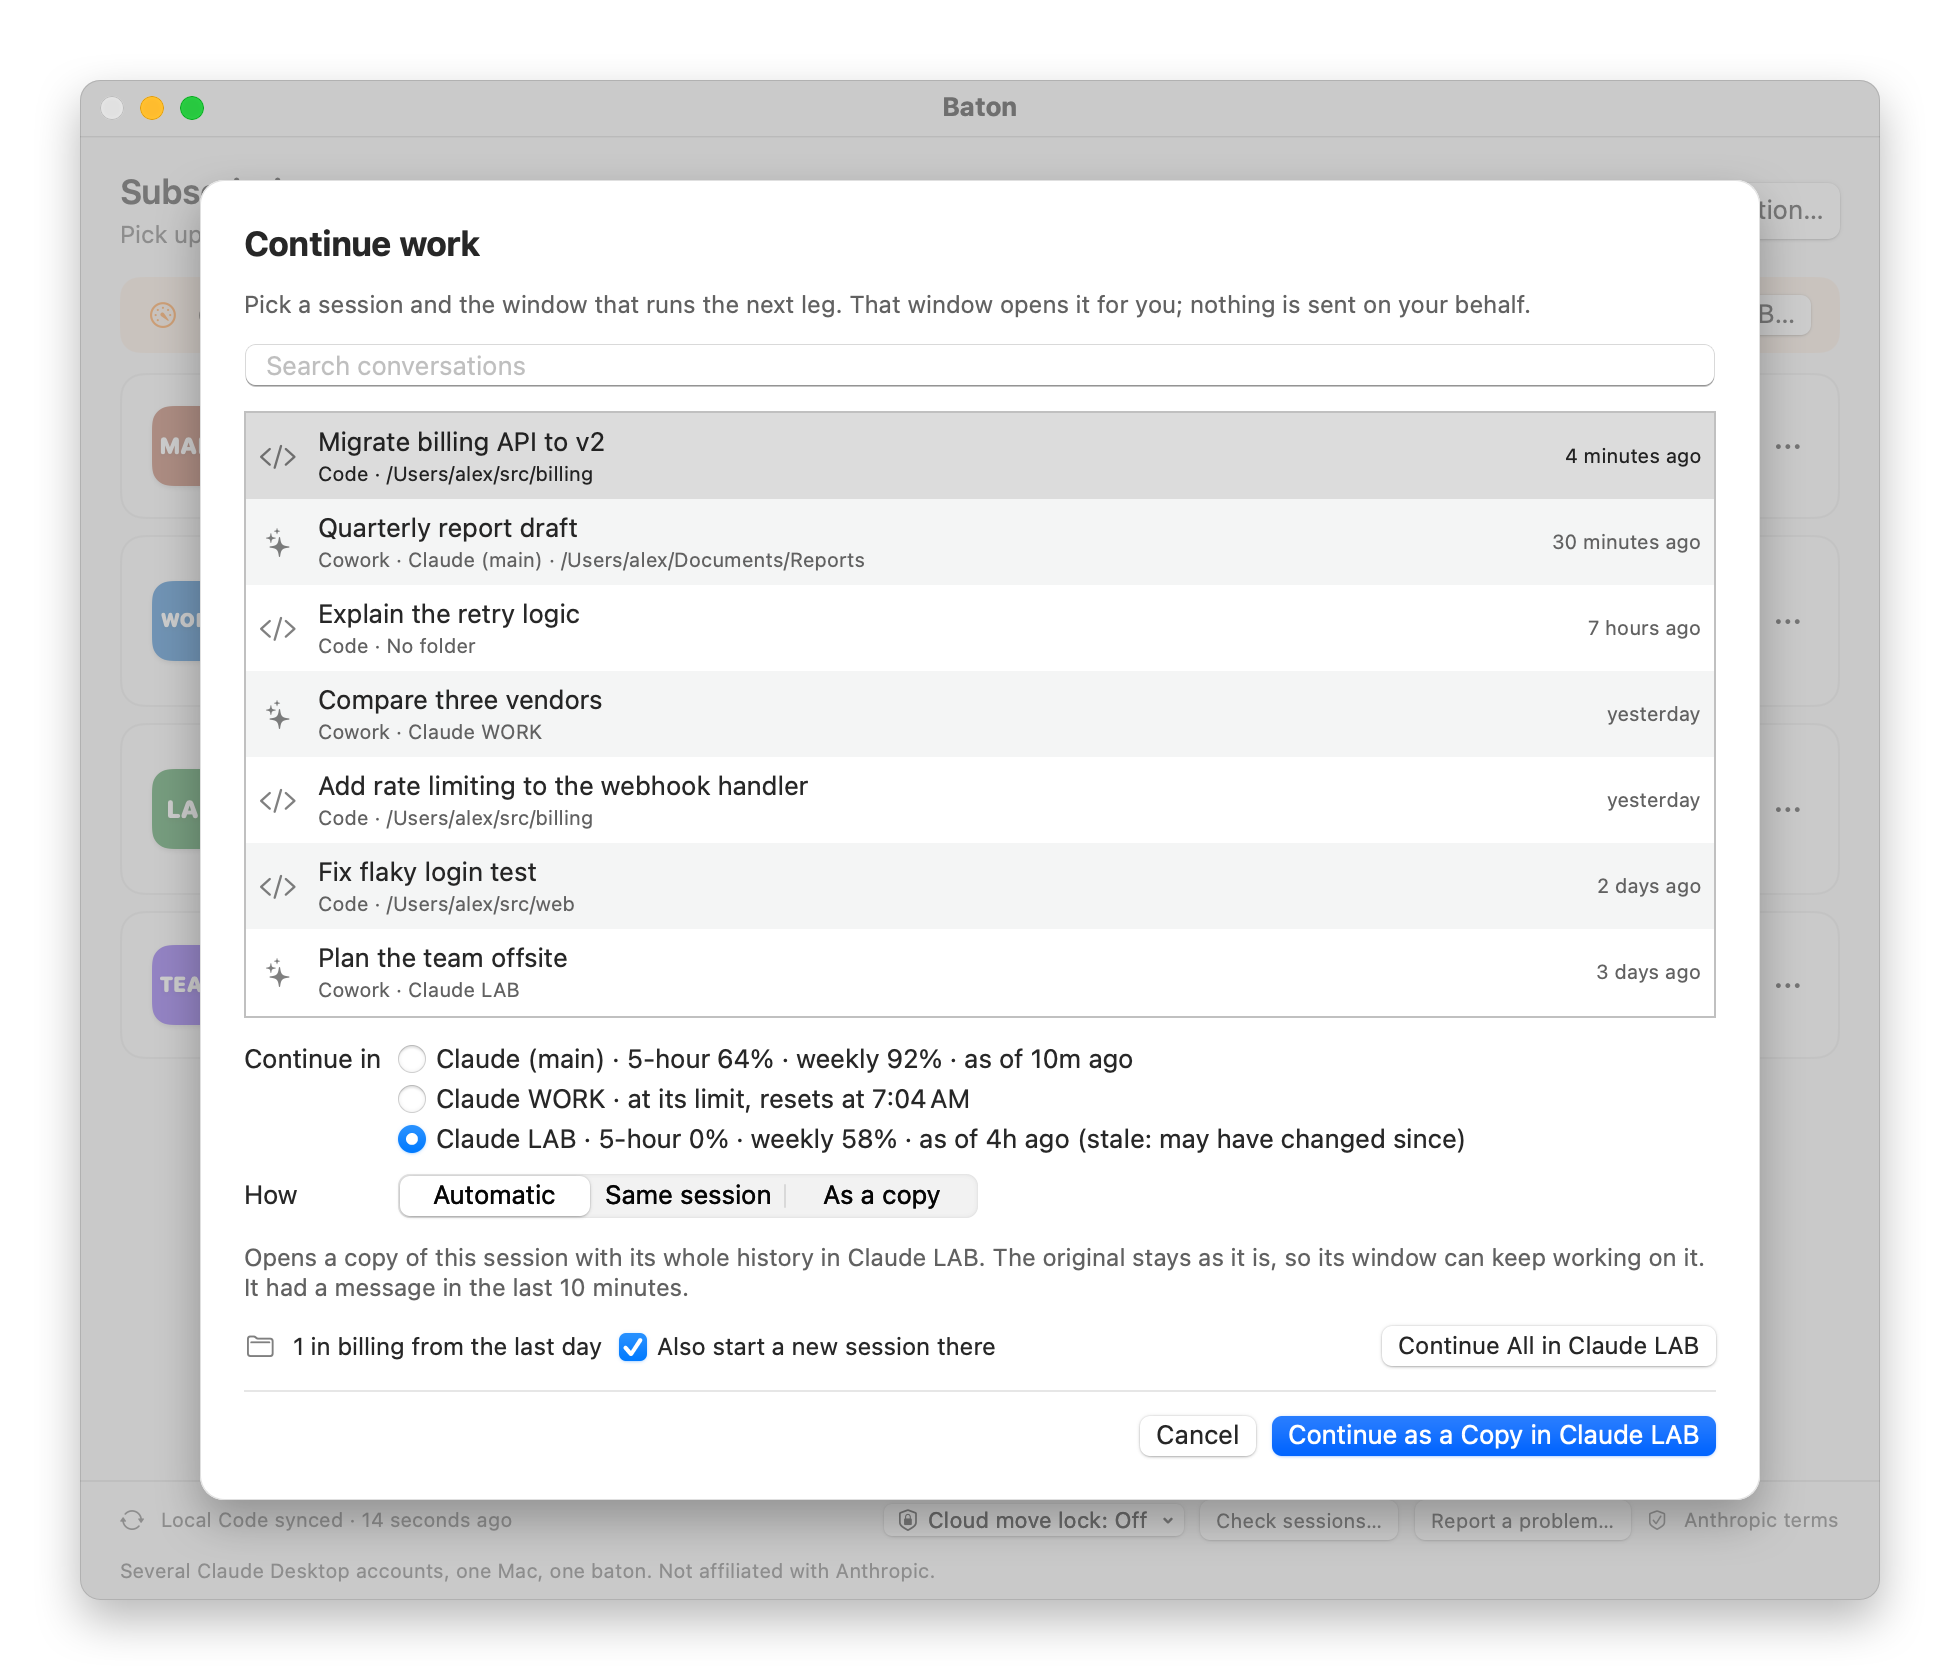
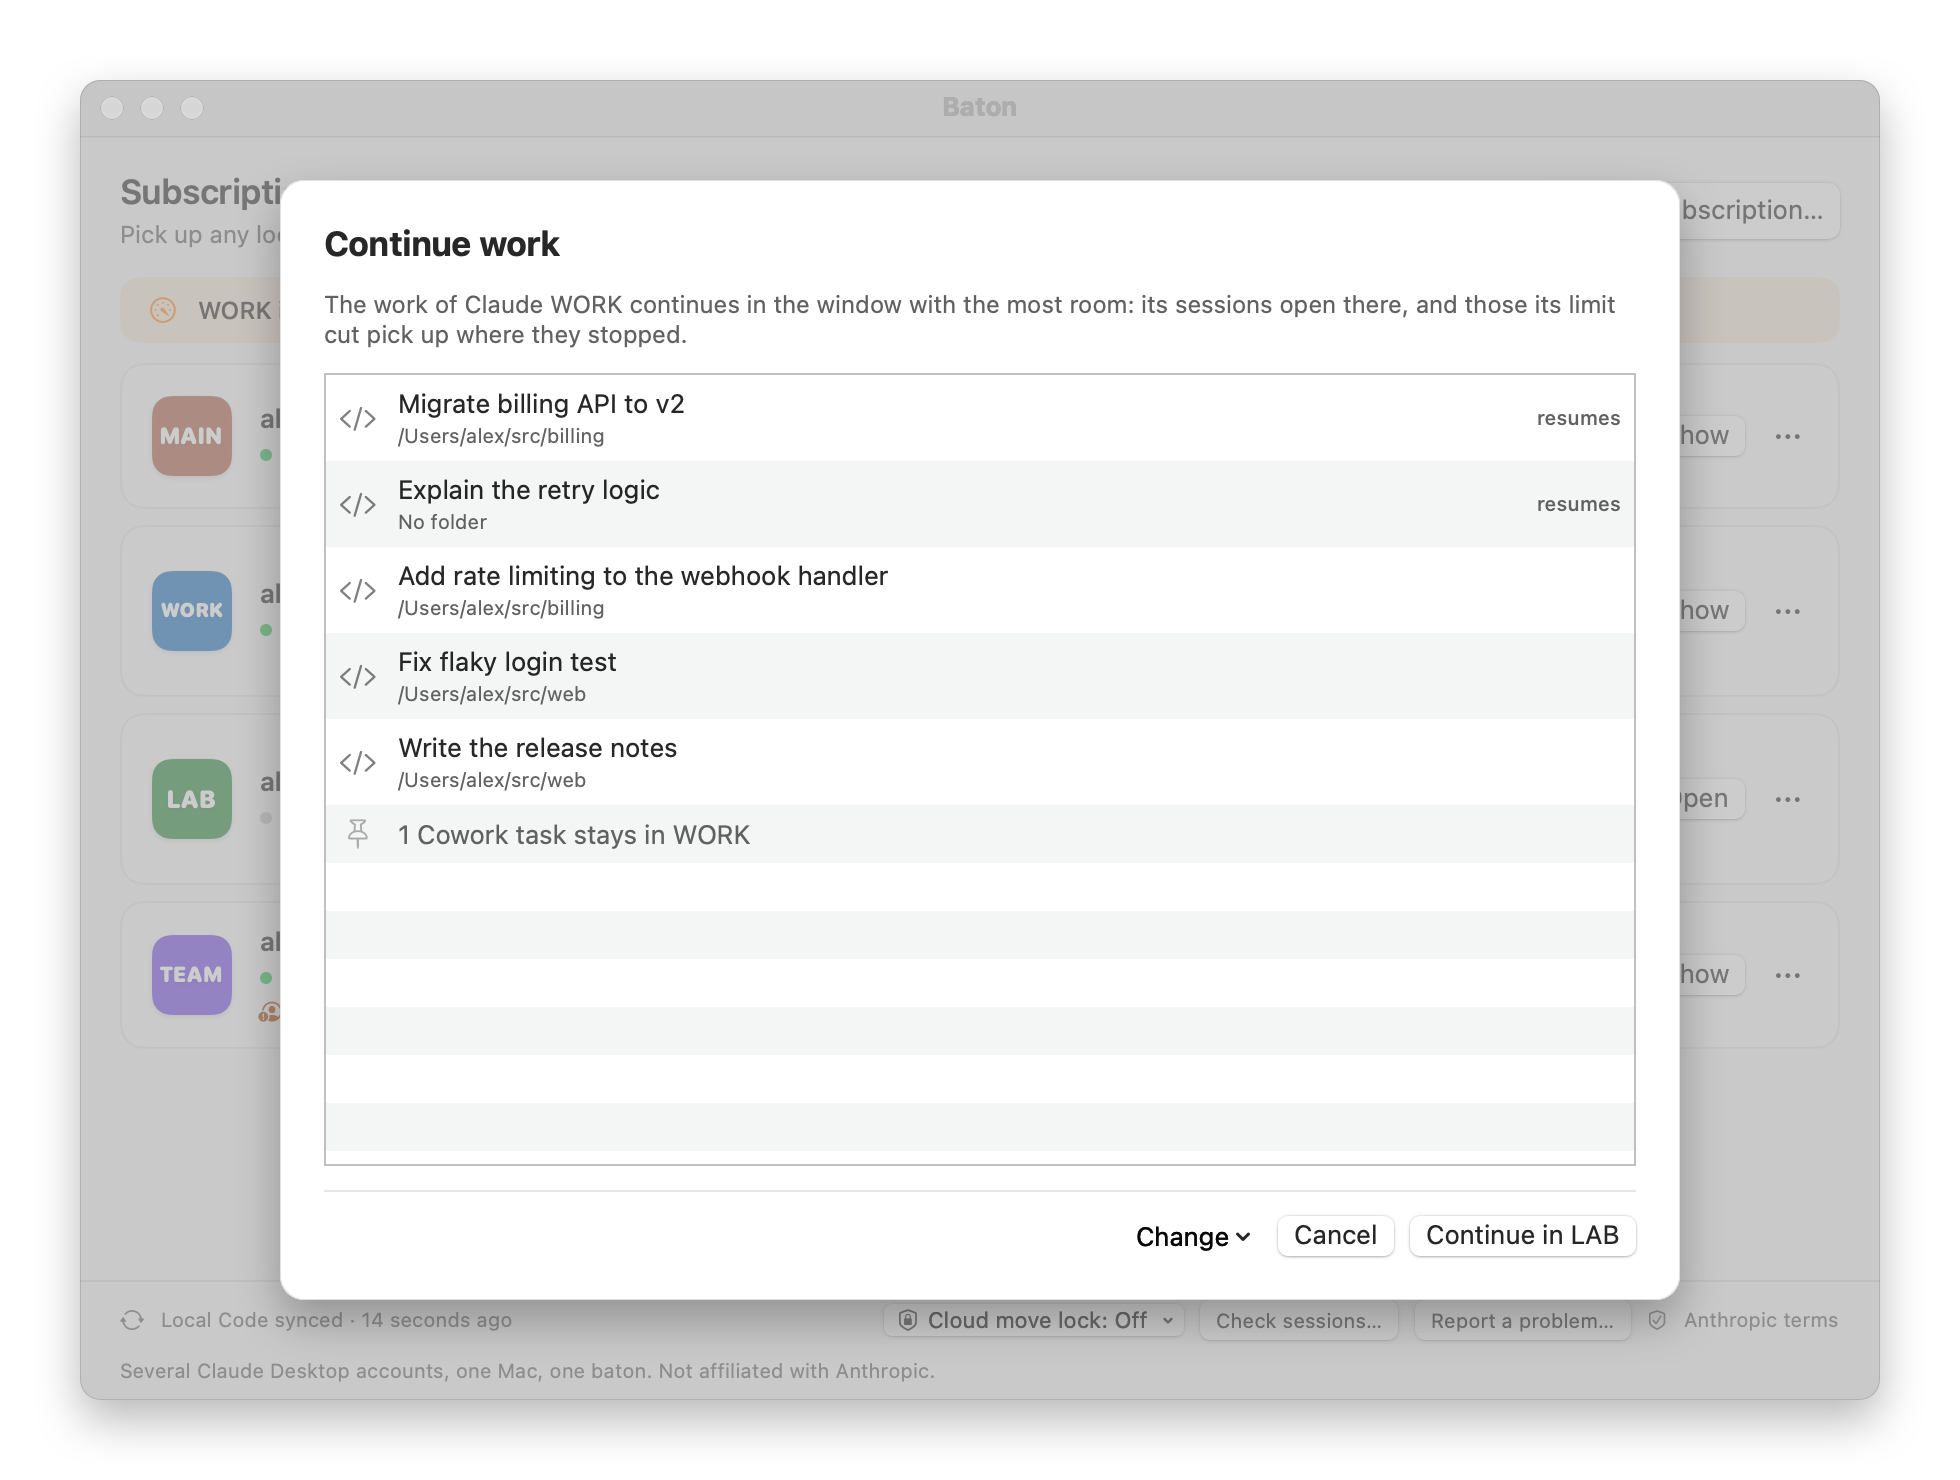
Continue sheet: plan the move on the click, never resume a session twice
A move planned when the sheet opened could resume sessions a handover had resumed in another window since. The move is
planned again on the click, and a by-hand move leaves sessions this limit's handover already resumed to that window. A
click while the work is moving says so, a planning error the banner can't show is said once, and the Dock-icon line goes
once a handover opened the window. README screenshots and alt text show the new sheet and banner.

Changed region(s): [[0.0311, 0.0311, 0.9648, 0.9324], [0.5291, 0.7459, 0.6224, 0.777]]

diff --git a/Sources/BatonApp/AppModel.swift b/Sources/BatonApp/AppModel.swift
@@ -66,6 +66,8 @@ final class AppModel: ObservableObject {
     @Published private(set) var handoverLines: [String: String] = [:]
     /// Windows whose work this app is handing over now.
     private var handingOver: Set<String> = []
+    /// The last reason a window's work couldn't be planned to move, shown once rather than on every reload.
+    private var handoverFailures: [String: String] = [:]
     private let limitWatch = LimitWatch()
 
     let manager: ProfileManager
@@ -601,17 +603,32 @@ extension AppModel {
                 // No room, handed over already or elsewhere: the banner says what holds, and the log why.
                 Log.notice("handover", "Didn't hand over window \(source): \(error.localizedDescription)")
                 handingOver.remove(source)
+                // Anything else means the work stays put without the banner saying so: say it, once per reason.
+                if !(error is HandoverError) {
+                    let line = "\(displayLabel(of: source))'s work didn't move: \(error.localizedDescription)"
+                    if handoverFailures.updateValue(line, forKey: source) != line { show(notice: line, isWarning: true) }
+                }
             }
         }
     }
 
-    /// Moves the work the Continue sheet planned, the way a handover at a limit does.
-    func move(_ plan: HandoverPlan) {
-        guard !isDemo, handingOver.insert(plan.source).inserted else { return }
+    /// Moves `source`'s work to `destination`, as the Continue sheet asked, the way a handover at a limit does. Planned
+    /// again now, not when the sheet opened: a handover may have moved some of the work meanwhile.
+    func move(from source: String, to destination: String) {
+        guard !isDemo else { return }
+        guard handingOver.insert(source).inserted else {
+            return show(notice: "\(displayLabel(of: source))'s work is moving already.", isWarning: true)
+        }
         let manager = manager
         Task {
-            await runHandover(source: plan.source, destination: plan.destination, atLimit: plan.sourceAtLimit) { progress in
-                try await manager.handOver(plan, progress: progress)
+            do {
+                let plan = try await Task.detached { try manager.planMove(from: source, to: destination) }.value
+                await runHandover(source: source, destination: plan.destination, atLimit: plan.sourceAtLimit) { progress in
+                    try await manager.handOver(plan, progress: progress)
+                }
+            } catch {
+                handingOver.remove(source)
+                show(notice: "\(displayLabel(of: source))'s work didn't move: \(error.localizedDescription)", isWarning: true)
             }
         }
     }
@@ -654,6 +671,9 @@ extension AppModel {
                 if let finished = try await manager.finishWaitingHandover(source: source) { result = finished }
             }
             handoverLines[source] = nil
+            handoverFailures[source] = nil
+            // The destination opened as part of the handover: a line saying it waits for a Dock-started Claude is past.
+            if let line = strayLines.removeValue(forKey: destination) { notices.withdraw(line) }
             show(notice: result.line, isWarning: result.isWarning)
             let title = atLimit ? "\(displayLabel(of: source)) is at its limit" : "\(displayLabel(of: source))'s work moved"
             LimitWatch.notify(title: title, body: result.line, id: "handover-\(source)")

diff --git a/Sources/BatonApp/MoveWorkSheet.swift b/Sources/BatonApp/MoveWorkSheet.swift
@@ -119,7 +119,7 @@ struct MoveWorkSheet: View {
             Divider()
             HStack(spacing: 8) {
                 Spacer()
-                if form.plan != nil, others.count > 1 {
+                if form.plan != nil || model.isDemo, others.count > 1 {
                     Menu("Change") {
                         ForEach(others) { status in
                             Button("Claude \(status.displayLabel)" + (status.id == form.best ? " (most room)" : "")) { choose(status.id) }
@@ -133,7 +133,7 @@ struct MoveWorkSheet: View {
                 Button(destinationLabel.isEmpty ? "Continue" : "Continue in \(destinationLabel)") { go() }
                     .buttonStyle(.borderedProminent)
                     .keyboardShortcut(.defaultAction)
-                    .disabled(form.plan == nil || form.isPlanning || (form.plan?.sessions.isEmpty ?? true))
+                    .disabled(!model.isDemo && (form.plan == nil || form.isPlanning || (form.plan?.sessions.isEmpty ?? true)))
             }
         }
         .padding(22)
@@ -173,8 +173,8 @@ struct MoveWorkSheet: View {
     }
 
     private func go() {
-        guard let plan = form.plan, !model.isDemo else { return dismiss() }
-        model.move(plan)
+        guard let destination = form.destination, form.plan != nil, !model.isDemo else { return dismiss() }
+        model.move(from: form.source, to: destination)
         dismiss()
     }
 }

diff --git a/Tests/BatonKitTests/MoveWorkTests.swift b/Tests/BatonKitTests/MoveWorkTests.swift
@@ -57,6 +57,20 @@ struct MoveWorkTests {
         #expect(log.entries().count == 2, "still counts as this limit's handover")
     }
 
+    @Test func moveDoesNotResumeWhatThisLimitsHandoverResumedAlready() throws {
+        let scene = try S()
+        try scene.session(S.a, title: "Armed")
+        try scene.armed([S.a])
+        let log = HandoverLog(paths: scene.box.paths)
+        try log.save(
+            HandoverLog.Entry(
+                source: "work", resetsAt: scene.reset, destination: "main", startedAt: scene.now.addingTimeInterval(-60), state: "done", sessions: 1,
+                cards: [S.card(S.a)]))
+        let plan = try scene.manager.planHandover(from: "work", to: nil, statuses: scene.statuses, now: scene.now, byHand: true)
+        #expect(plan.sessions.map(\.transcript) == [S.a])
+        #expect(plan.cut.isEmpty, "resumed by the handover already, so not in a second window")
+    }
+
     @Test func moveIgnoresAResetWithinMinutes() throws {
         let scene = try S(resetIn: 600)
         try scene.session(S.a, title: "Armed")

diff --git a/Sources/BatonKit/Handover.swift b/Sources/BatonKit/Handover.swift
@@ -481,6 +481,14 @@ extension ProfileManager {
 
         var leftovers: [HandoverLeftover] = []
         var candidates = handoverCandidates(source: source, account: sourceAccount, resetsAt: resetsAt, now: now)
+        if byHand {
+            // Sessions a handover of this limit already resumed elsewhere move, but don't resume a second time:
+            // that window's auto-continue has them, and one session must not run in two windows.
+            let earlier = Set(
+                HandoverLog(paths: paths).entries().filter { HandoverLog.same($0, source: source, resetsAt: resetsAt, now: now) }
+                    .flatMap { $0.cards ?? [] })
+            for i in candidates.indices where earlier.contains(candidates[i].session.card) { candidates[i].session.cut = false }
+        }
         let remoteControl = candidates.filter(\.remoteControl).count
         candidates.removeAll(where: \.remoteControl)
         let rules = try FolderRules(paths: paths).load()

diff --git a/README.md b/README.md
@@ -22,7 +22,7 @@
 </p>
 
 <p align="center">
-  <img src="docs/images/main-window.png" width="820" alt="Baton window listing four subscriptions with their Dock labels and accounts, five-hour and weekly usage for three of them, one at its five-hour limit with a banner that says when it resets and offers to continue in another window, and one waiting to sign in">
+  <img src="docs/images/main-window.png" width="820" alt="Baton window listing four subscriptions with their Dock labels and accounts, five-hour and weekly usage for three of them, one at its five-hour limit with a banner that says when it resets and that it picks its work up by itself then, and one waiting to sign in">
 </p>
 
 Baton runs several Claude Desktop accounts on one Mac, each in its own window of the official Claude Desktop app, and lets you hand a local conversation from one of your windows to another. Think of it as a relay team where every runner is you.
